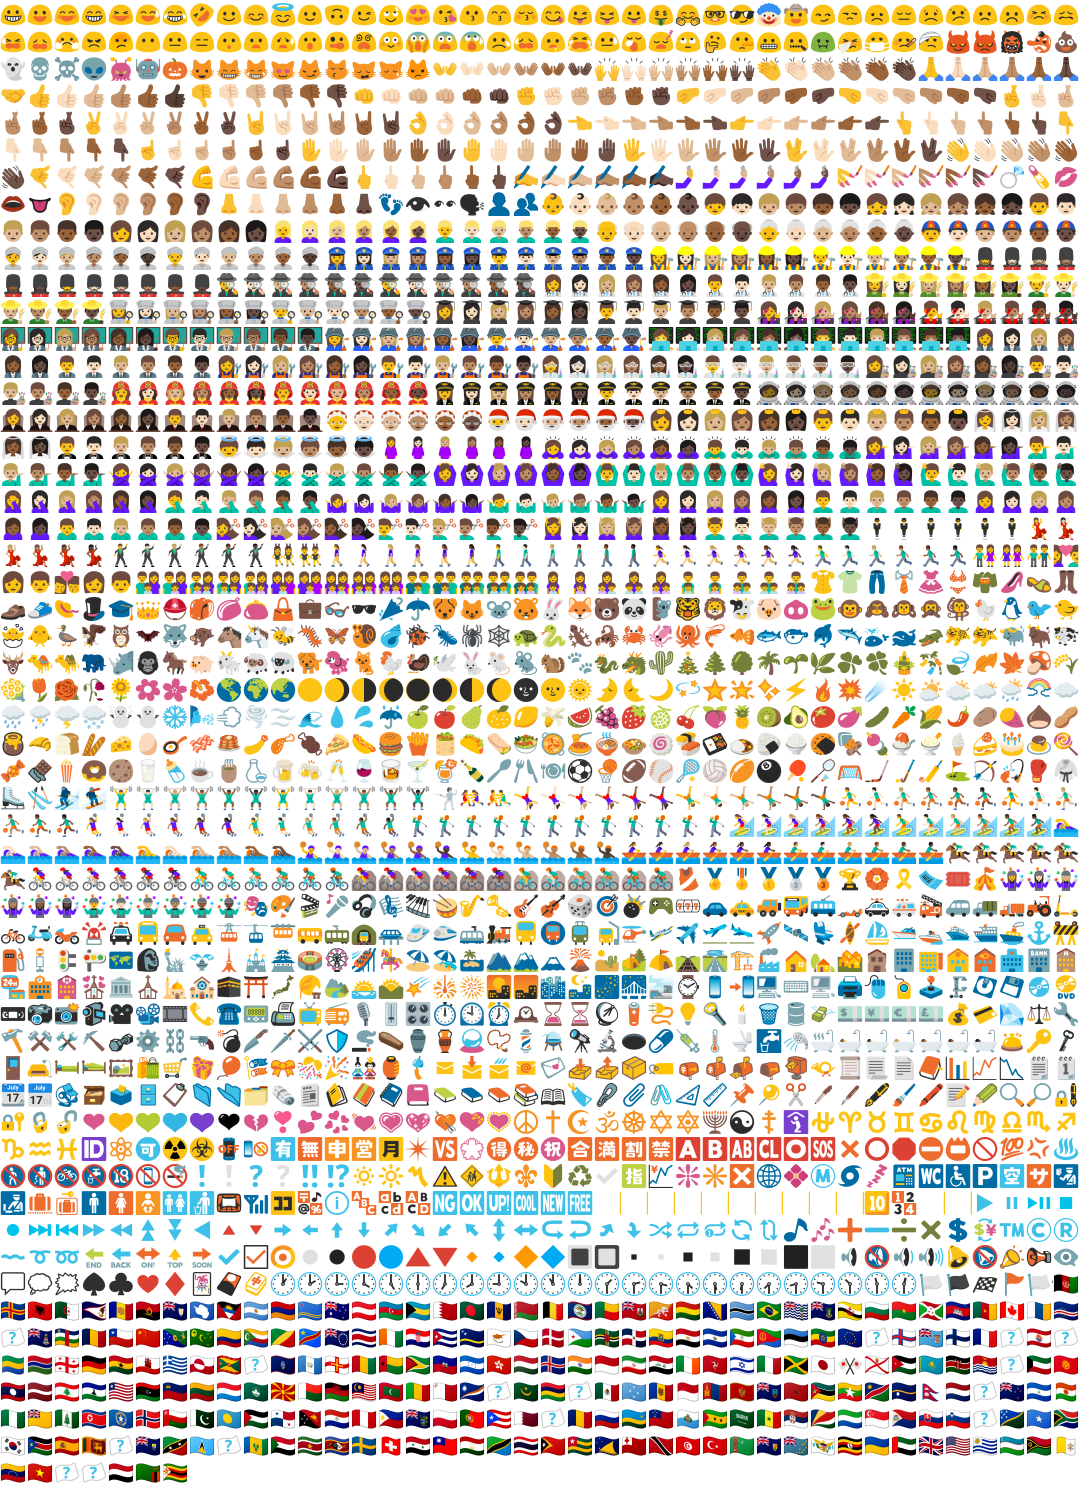
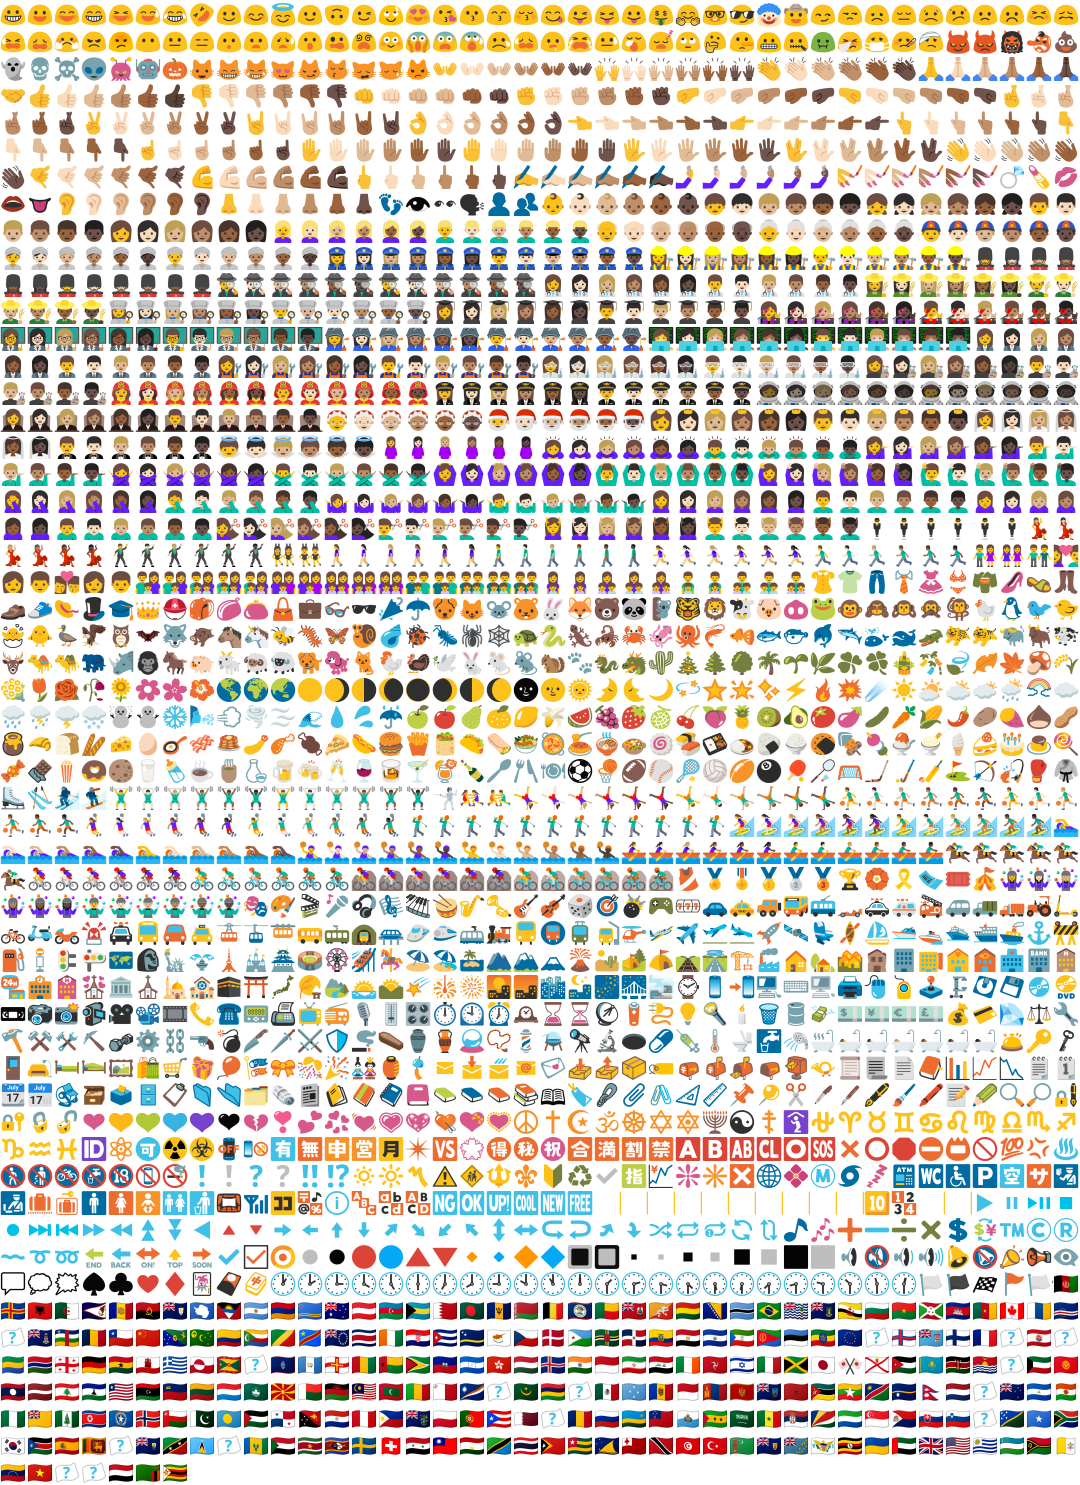
move to new set of Noto Emoji

diff --git a/Telegram/SourceFiles/codegen/emoji/main.cpp b/Telegram/SourceFiles/codegen/emoji/main.cpp
@@ -25,9 +25,6 @@ Copyright (c) 2014-2017 John Preston, https://desktop.telegram.org
 
 int main(int argc, char *argv[]) {
 #ifdef SUPPORT_IMAGE_GENERATION
-#ifndef Q_OS_MAC
-#error "Image generation is supported only on macOS"
-#endif // Q_OS_MAC
 	QGuiApplication app(argc, argv);
 #else // SUPPORT_IMAGE_GENERATION
 	QCoreApplication app(argc, argv);

diff --git a/Telegram/SourceFiles/codegen/emoji/generator.h b/Telegram/SourceFiles/codegen/emoji/generator.h
@@ -19,7 +19,7 @@ Full license: https://github.com/telegramdesktop/tdesktop/blob/master/LICENSE
 Copyright (c) 2014-2017 John Preston, https://desktop.telegram.org
 */
 #pragma once
-
+#define SUPPORT_IMAGE_GENERATION
 #include <memory>
 #include <QtCore/QString>
 #include <QtCore/QSet>

diff --git a/Telegram/SourceFiles/codegen/emoji/options.h b/Telegram/SourceFiles/codegen/emoji/options.h
@@ -19,7 +19,7 @@ Full license: https://github.com/telegramdesktop/tdesktop/blob/master/LICENSE
 Copyright (c) 2014-2017 John Preston, https://desktop.telegram.org
 */
 #pragma once
-
+#define SUPPORT_IMAGE_GENERATION
 #include <QtCore/QString>
 #include <QtCore/QStringList>
 
